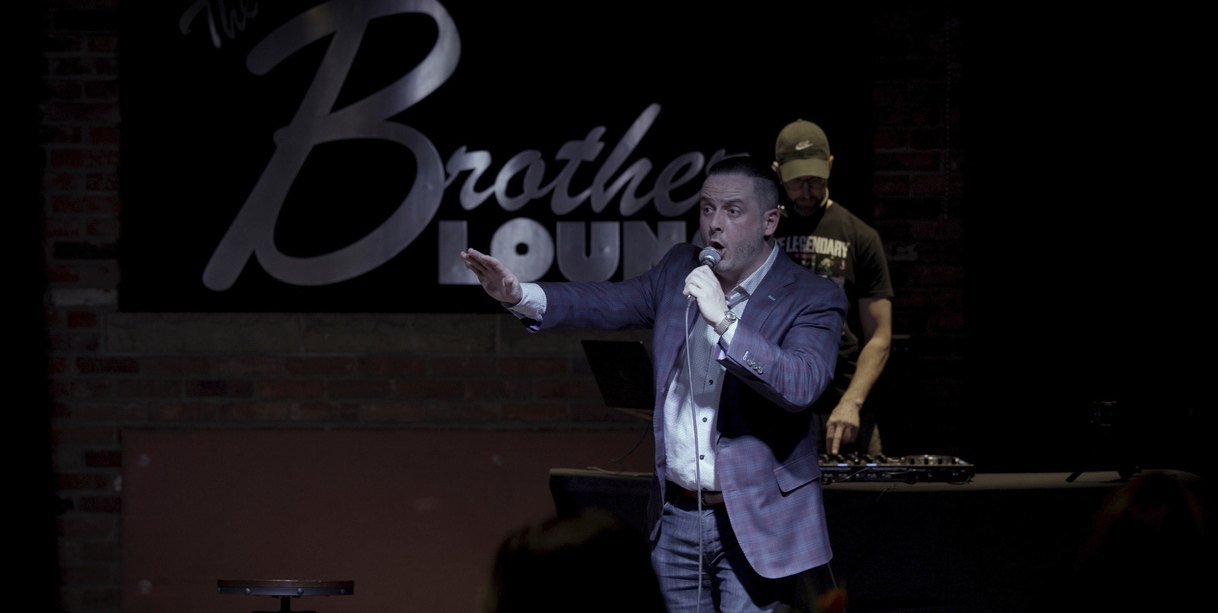
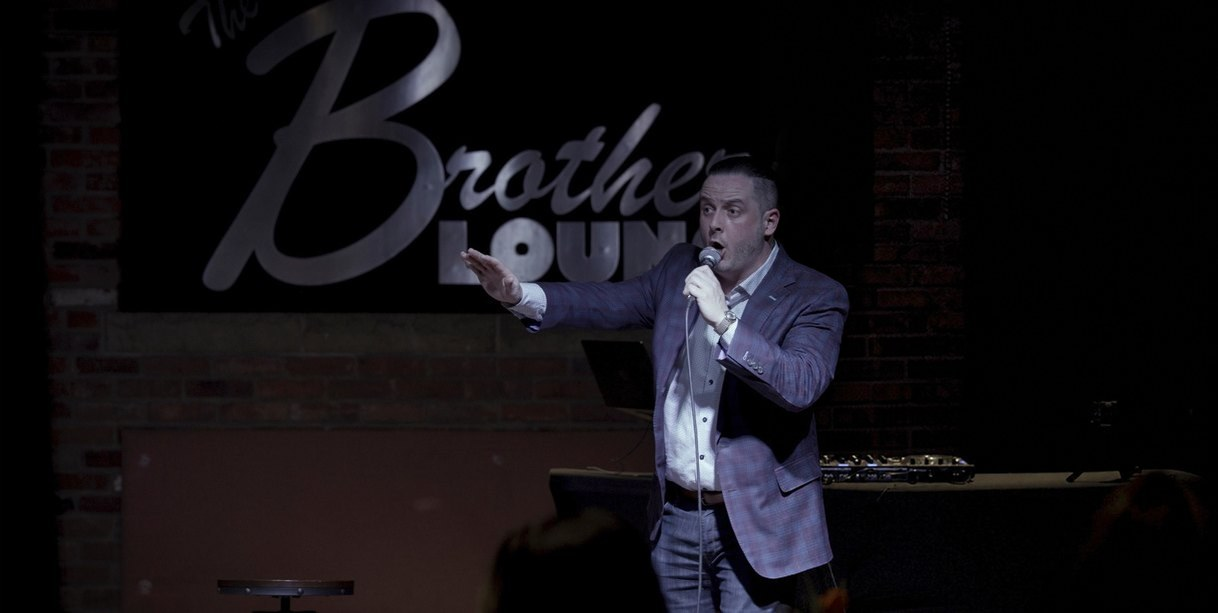
Hero copy: 22 years in mortgage industry; remove background person from hero photo

Changed region(s): [[0.624, 0.186, 0.7488, 0.7749]]

diff --git a/index.html b/index.html
@@ -14,7 +14,7 @@
 <link rel="preconnect" href="https://api.fontshare.com" crossorigin>
 <link href="https://api.fontshare.com/v2/css?f[]=clash-display@500,600&display=swap" rel="stylesheet">
 <link href="https://api.fontshare.com/v2/css?f[]=satoshi@400,500,700&display=swap" rel="stylesheet">
-<link rel="preload" as="image" href="assets/stage-closeup.jpg">
+<link rel="preload" as="image" href="assets/stage-closeup.jpg?v=2">
 <link rel="stylesheet" href="styles.css">
 <script>document.documentElement.classList.add("js")</script>
 <script type="application/ld+json">
@@ -48,12 +48,12 @@
 <!-- HERO -->
 <section class="hero" id="top">
   <div class="hero-media" aria-hidden="true">
-    <img src="assets/stage-closeup.jpg" alt="">
+    <img src="assets/stage-closeup.jpg?v=2" alt="">
   </div>
   <div class="wrap hero-inner">
     <p class="eyebrow">Keynote speaker &middot; Cleveland, Ohio</p>
     <h1 class="hero-title">Creating unforgettable moments that change lives.</h1>
-    <p class="hero-sub">Geoff “Schmidty” Schmidt brings 20 years of leading teams at Rocket Companies to the stage, with stories, humor, and real talk that help people navigate change and leave ready to act.</p>
+    <p class="hero-sub">Geoff “Schmidty” Schmidt brings 22 years as a leader and sales professional in the mortgage industry to the stage, with stories, humor, and real talk that help people navigate change and leave ready to act.</p>
     <div class="hero-ctas">
       <a class="btn btn-gold" href="#book">Book a keynote</a>
       <a class="btn btn-ghost" href="#watch"><svg viewBox="0 0 24 24" width="16" height="16" aria-hidden="true"><path fill="currentColor" d="M8 5v14l11-7z"/></svg>Watch him speak</a>
@@ -184,7 +184,7 @@
       <p>He speaks with a raw, real-world perspective on leadership, self-development, mental resilience, and personal growth. Audiences leave emotionally moved, reflective, and ready to take action toward positive change.</p>
       <p>Whether it's a keynote at a leadership conference, a talk at a university, or an immersive Elevate event that blends music and motivation, the goal is the same: a moment that stays with you long after the final word.</p>
       <dl class="facts">
-        <div><dt>20 years</dt><dd>Leading teams at Rocket Companies</dd></div>
+        <div><dt>22 years</dt><dd>Leader and sales professional in the mortgage industry</dd></div>
         <div><dt>30–60 min</dt><dd>Keynotes, plus workshops and panels</dd></div>
         <div><dt>Every stage</dt><dd>Boardrooms, campuses, communities</dd></div>
       </dl>
